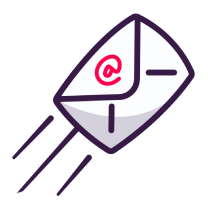
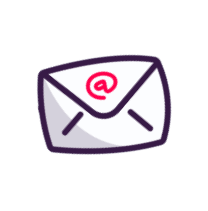
Commit 17/07/23 . optim animation contact me part

Changed region(s): [[0.0577, 0.0569, 0.9519, 0.91], [0.2596, 0.91, 0.2885, 0.9384]]

diff --git a/src/css/ContactMe.css b/src/css/ContactMe.css
@@ -40,12 +40,12 @@
     width: 120px;
     height: 120px;
     opacity: 0;
-    animation: slide-in-out 5s linear 5s infinite, up-and-down 2s ease-in-out 2s infinite;
+    animation: slide-in-out 5s linear infinite, up-and-down 2s ease-in-out infinite;
 }
 
 @keyframes slide-in-out {
     0% {
-        left: -15%;
+        left: -5%;
         transform: translateY(-50%);
         opacity: 1;
     }
@@ -60,13 +60,13 @@
         opacity: 0;
     }
     85% {
-        left: 105%;
-        transform: translateY(-50%);
+        left: 80%;
+        transform: translateY(-50%, -50%);
         opacity: 1;
     }
     100% {
-        left: 105%;
-        transform: translateY(-50%);
+        left: 100%;
+        transform: translateY(-50%, -50%);
         opacity: 0;
     }
 }

diff --git a/src/css/Projects.css b/src/css/Projects.css
@@ -13,7 +13,7 @@
 .swiper .swiper-slide {
     background-position: center;
     background-size: cover;
-    width: 30vw;
+    width: 35vw;
     height: 350px;
     margin-top: 50px;
     -webkit-box-reflect: below 1px linear-gradient(transparent, transparent, #0006);
